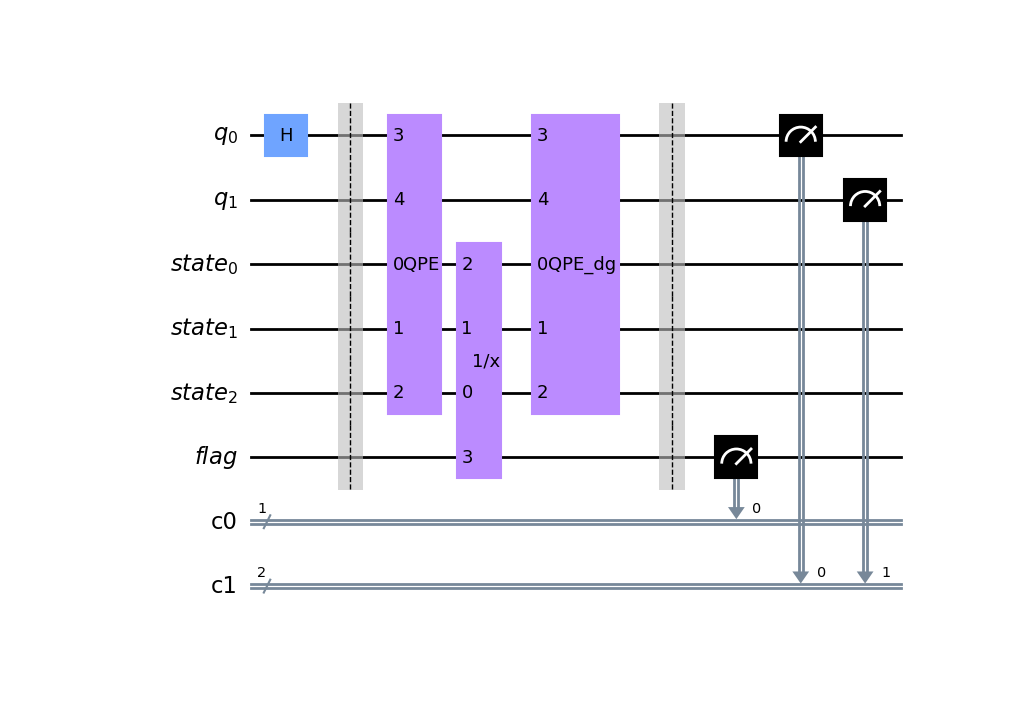
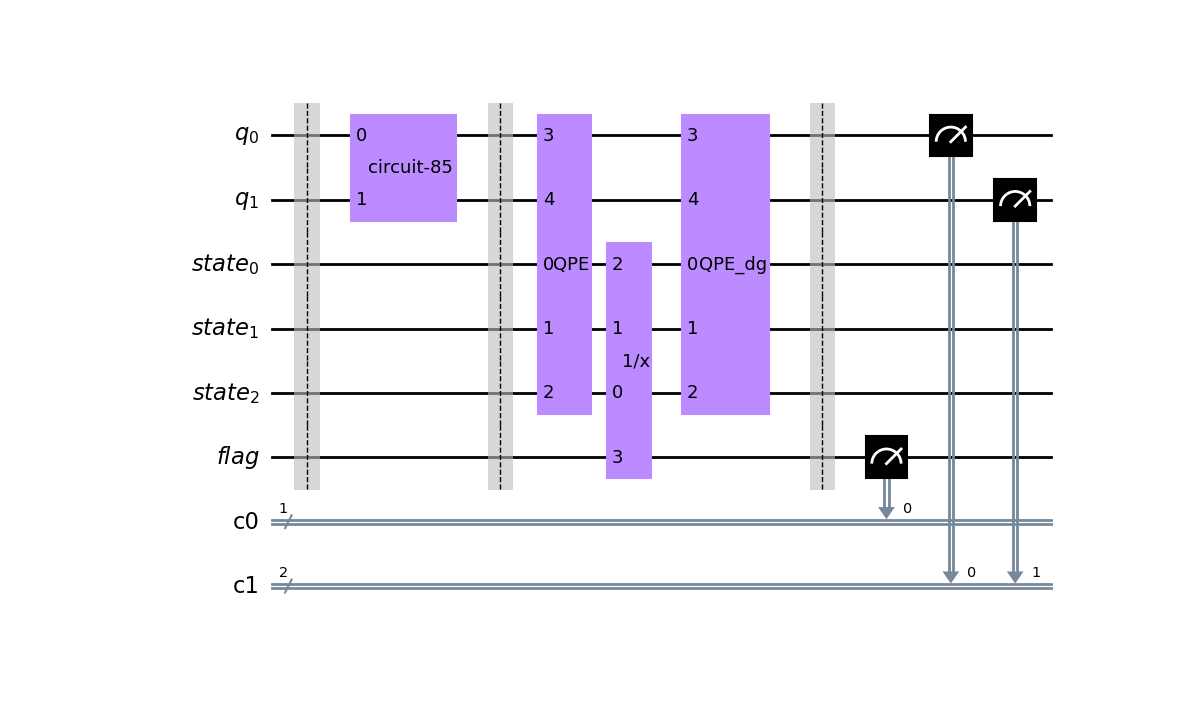
add captions 1

Changed region(s): [[0.1533, 0.1496, 0.8892, 0.8376], [0.184, 0.8077, 0.276, 0.8675]]

diff --git a/circuit.py b/circuit.py
@@ -2,41 +2,63 @@ import numpy as np
 from qiskit import QuantumCircuit, QuantumRegister, ClassicalRegister
 from QPE import QPE, qpe_qiskit
 from rotation import rotation, Reciprocal
-
-def circuit(A, nl, delta, wrap = True):
+from initialize import make_b_state
+def circuit(A, b, nl, delta, wrap = True):
+    #flag qubit의 갯수, 상태 준비가 확률적인 경우 늘릴 필요가 있음
     nf = 1
+    #evolution time 정의, eigenvalue에 따라서 다르게 정의할 필요가 있음
     t = 2* np.pi * delta
+    #eigenvalue가 음수일 경우 -를 포함하는 qubit이 필요하고 이것을 boolean으로 표현
     neg_vals = True
-    qc_qpe, nb = QPE(nl, A, t)
-    qc_qpet = QPE(nl, A, t, adjoint = False)[0].inverse()
-    #qc_qpe, nb = qpe_qiskit(nl, A, t)
-    #qc_qpet = qpe_qiskit(nl, A, t, adjoint = False)[0].inverse()
+    #b벡터를 normalize된 양자 상태로 바꾸는 회로
+    init_b, nb = make_b_state(b)
+    #Quantum Phase Estimation을 시행하는 회로
+    qc_qpe= QPE(nl, nb, A, t)
+    #QPE를 역과정으로 만든 회로
+    qc_qpet = QPE(nl, nb, A, t, adjoint = False).inverse()
+    """
+    #qiskit에서 제공하는 QPE 함수를 그대로 사용하는 경우 아래의 코드를 사용
+    qc_qpe, nb = qpe_qiskit(nl, A, t)
+    qc_qpet = qpe_qiskit(nl, A, t, adjoint = False)[0].inverse()
+    """
+    #양자 register들을 설정, nl(QPE에 필요한 상태 qubit의 수), nb(b벡터를 표현하는 양자 register), nf(reciprocal 회전을 적용하는 qubit 일반적으로 1), na(필요할 경우 사용, ancila qubit), 
     nl_rg = QuantumRegister(nl, "state")
     nb_rg = QuantumRegister(nb, "q")
     #na_rg = QuantumRegister(nl, "a")
     nf_rg = QuantumRegister(nf, "flag")
+    #classical register들을 설정, 계산에 필요한 f와 b만을 따로 측정 
     cf = ClassicalRegister(nf)
     cb = ClassicalRegister(nb)
+    #register들을 합쳐서 회로를 구성, 필요할 경우 na추가
     qc = QuantumCircuit(nb_rg, nl_rg,nf_rg, cf, cb)
 
-    qc.h(nb_rg[0])
-    
     qc.barrier()
-    #qc_qpet = qc_qpe.inverse()
-    #qc_rot = rotation(nl).reverse_bits()
+    """
+    #Chebyshev근사를 사용한 방식을 사용하는 경우 (부정확함)
+    qc_rot = rotation(nl)
+    """
+    #qiskit에서 제공하는 Reciprocal 함수를 사용해서 f qubit에 대한 회전을 구현 
     qc_rot = Reciprocal(nl, delta = delta*(2**(nl-1)), neg_vals = neg_vals)
-    #qc = qc + qc_qpe + qc_rot + qc_qpet
+
     if wrap:
+        #QPE, reciprocal, QPE inverse를 순서대로 추가, 각각을 하나의 instruction으로 표현
+        qc.append(init_b, nb_rg[:])
+        qc.barrier()
         qc.append(qc_qpe,nl_rg[:]+nb_rg[:])
-        qc.append(qc_rot,[nl_rg[2]]+[nl_rg[1]]+[nl_rg[0]]+nf_rg[:])#.to_instruction(label="1/x")
+        qc.append(qc_rot,[nl_rg[2]]+[nl_rg[1]]+[nl_rg[0]]+nf_rg[:])
         qc.append(qc_qpet,nl_rg[:]+nb_rg[:])
     else:
+        #QPE, reciprocal, QPE inverse를 순서대로 추가, 내부의 gate들을 나누어서 표현
+        qc.compose(init_b, nb_rg[:])
+        qc.barrier()
         qc = qc.compose(qc_qpe,nl_rg[:]+nb_rg[:])
-        qc = qc.compose(qc_rot,[nl_rg[2]]+[nl_rg[1]]+[nl_rg[0]]+nf_rg[:])#.to_instruction(label="1/x")
+        qc = qc.compose(qc_rot,[nl_rg[2]]+[nl_rg[1]]+[nl_rg[0]]+nf_rg[:])
         qc = qc.compose(qc_qpet,nl_rg[:]+nb_rg[:])
     qc.barrier()
-    #qc.x(nb_rg[1])
+    #각 register들을 측정한다
     qc.measure(nf_rg,cf)
     qc.measure(nb_rg,cb)
+    #회로 그림을 저장
     qc.draw("mpl").savefig("HHL_circuit.png")
+    #회로를 반환
     return qc

diff --git a/main.py b/main.py
@@ -2,27 +2,60 @@ import numpy as np
 from solver import HHL_my, HHL_qiskit
 from qiskit.algorithms.linear_solvers.numpy_linear_solver import NumPyLinearSolver
 
+"""
+HHL 알고리즘에 대한 이해를 위해서 qiskit에서 제공하는 HHL 알고리즘의 코드를 기반으로 코드를 재구성해 보았다.
+이 코드에서는 qiskit의 HHL 코드에서 몇개의 변수에 대한 계산을 생략하고 특정한 값을 넣어서 작동시켰다.
+임의의 선형 방정식 Ax=b (A가 Hermition이 아니여도 됨)에 대해서 A와 b가 주어졌을 때 normalize된 x 벡터를 구하는 코드이다. 
+실제 값을 얻기 위해서는 normalize된 벡터를 다시 Ax = b에 대입하여 특정한 상수를 구해주는 과정이 추가적으로 필요하다.
+"""
 def main(A, b, wrap = True):
+    #A가 Hermition인지 아닌지를 확인하고 A가 Hermition이 아닐 경우 0벡터를 추가하여 Hermition의 형태가 되도록 한다.
+    """
+    ex) A = [[a,b],     
+            [c,d]] 일때
+
+    A = [[0,0,a,b],
+        [0,0,c,d],
+        [a*,c*,0,0],
+        [b*,d*,0,0]] 의 형태로 바꾸어 Hermition으로 바꿍
+
+    b = [e,
+        f] 라면
+
+    b = [e,
+        f,
+        0,
+        0] 으로 바꾸어 원래의 식과 동일하게 바꾼다.
+    """
+
     if np.allclose(A, A.conj().T):
         A = A
+        b = b
     else:
-        A = np.vstack((np.hstack((np.zeros_like(A),A)),np.hstack((A.T, np.zeros_like(A)))))
-    
+        A = np.vstack((np.hstack((np.zeros_like(A),A)),np.hstack((A.conj().T, np.zeros_like(A)))))
+        b = np.hstack((b, np.zeros_like(b)))
+    # delta를 통해서 evolution time t와 reciprocal 과정에서의 scaling을 결정한다. 이 코드에서는 임의의 값으로 설정함
     delta = 1/16
-    my_sol = HHL_my(A,delta, wrap =wrap)
+    #재구성한 모델
+    my_sol = HHL_my(A, b, delta, wrap = wrap)
+    #원본 qiskit 모델
     qiskit_sol = HHL_qiskit(A,b) 
+    #고전적인 계산 결과
     classical_solution = NumPyLinearSolver().solve(A, b / np.linalg.norm(b))
     classical_sol = classical_solution.state/np.linalg.norm(classical_solution.state)
+
     print("my solution:", my_sol)
     print("qiskit solution:", qiskit_sol)
     print('classical solution:', classical_sol)
+    #고전적인 결과와 비교하였을 때 모델에 대한 에러
     my_err = np.linalg.norm(classical_sol-my_sol)
     qiskit_err = np.linalg.norm(classical_sol-qiskit_sol)
     print("my error:", my_err)
     print("qiskit error:", qiskit_err)
 if __name__ == "__main__":
+    #A, b입력
     A = np.array([[2,-1],[1,4]])
-    b = np.array([1,1,0,0])
+    b = np.array([1,1])
     main(A,b)
     
     

diff --git a/solver.py b/solver.py
@@ -7,23 +7,36 @@ from normalize import normalize_vector
 from qiskit import QuantumCircuit, ClassicalRegister, QuantumRegister
 
 
-def HHL_my(A, delta, wrap = True):
-    qc = circuit(A, 3, delta, wrap = wrap)
+def HHL_my(A, b, delta, wrap = True):
+    #기초 회로 구성, 입력값: A(행렬), b(벡터), nl(사용하는 qubit의 수, 높을 수록 정확도가 높아짐), delta(evolution time t와 reciprocal 과정에서의 scaling을 결정), wrap(회로를 합쳐서 볼지 결정)
+    qc = circuit(A, b, 3, delta, wrap = wrap)
+    #양자 회로를 시뮬레이션하는 코드
     aer_sim = Aer.get_backend('aer_simulator')
     shots = 8192
     t_qpe = transpile(qc, aer_sim)
     qobj = assemble(t_qpe, shots=shots)
     results = aer_sim.run(qobj).result()
+    #시뮬레이션된 결과를 dictionary로 받음
     answer = results.get_counts()
+    #실험 결과를 통해서 noramlize된 결과를 얻음
     vector = normalize_vector(answer)
     return vector
+
+
 def HHL_qiskit(A,b):
+    #backend 설정
     backend = Aer.get_backend('aer_simulator')
+    #qiskit HHL 코드를 불러옴
     hhl = HHL(quantum_instance=backend)
+    #A, b에 대해서 HHL 회로를 구성
     solution = hhl.solve(A, b)
+    #만들어진 회로를 그림으로 저장
     solution.state.draw("mpl").savefig("HHL_circuit_qiskit.png")
+    #연산된 상태를 상태 벡터의 형태로 결과를 얻음
     naive_sv = Statevector(solution.state).data
+    #상태 벡터에서 필요한 상태만을 골라서 저장함
     naive_full_vector = np.array([naive_sv[64], naive_sv[65], naive_sv[66], naive_sv[67]])
-    
+    #실수 부분만 취함
     naive_full_vector = np.real(naive_full_vector)
+    #얻어진 벡터를 normalize하여 반환
     return naive_full_vector/np.linalg.norm(naive_full_vector)

diff --git a/QPE.py b/QPE.py
@@ -31,9 +31,9 @@ def qft(n, inverse = False):
     #display(qc.draw(output = 'mpl'))
     return qc
 
-def QPE(n_l,A,t, adjoint = False):
+def QPE(n_l, n_b, A,t, adjoint = False):
     #circuit initialization for HHL
-    U, n_b = Unitary(A, t, adjoint=adjoint)
+    U = Unitary(A, t, adjoint=adjoint)
     CU = add_control(U,1,ctrl_state=None, label="CU")
     CU.name = "CU"
     nl_rg = QuantumRegister(n_l, "state")
@@ -59,9 +59,9 @@ def QPE(n_l,A,t, adjoint = False):
     #display(qc.draw(output = 'mpl'))
     # qc2 = qc.inverse()
     # display(qc2.draw(output = 'mpl'))
-    return qc, n_b
+    return qc
 
 def qpe_qiskit(nl, A, t, adjoint=False):
-    U, n_b = Unitary(A, t, adjoint=adjoint)
+    U = Unitary(A, t, adjoint=adjoint)
     qpe = PhaseEstimation(nl, U)
-    return qpe, n_b
+    return qpe

diff --git a/initialize.py b/initialize.py
@@ -1,0 +1,13 @@
+import numpy as np
+from qiskit import QuantumCircuit
+
+#b 벡터를 양자 상태로 바꿔주는 함수
+def make_b_state(b):
+    #벡터를 통해서 필요한 qubit의 수를 계산
+    nb = int(np.log2(len(b)))
+    #기초 회로를 설정
+    vector_circuit = QuantumCircuit(nb)
+    #입력한 벡터와 동일한 상태를 만드는 회로를 만듬
+    vector_circuit.isometry(b / np.linalg.norm(b), list(range(nb)), None)
+    #회로와 qubit의 수를 반환
+    return vector_circuit, nb

diff --git a/unitary.py b/unitary.py
@@ -27,5 +27,4 @@ def Unitary(A, t, adjoint = False):
     if adjoint:
         U = U.H
     U_gate = UnitaryGate(U)
-    n_b = int(np.log2(U.shape[0]))
-    return U_gate, n_b
+    return U_gate
